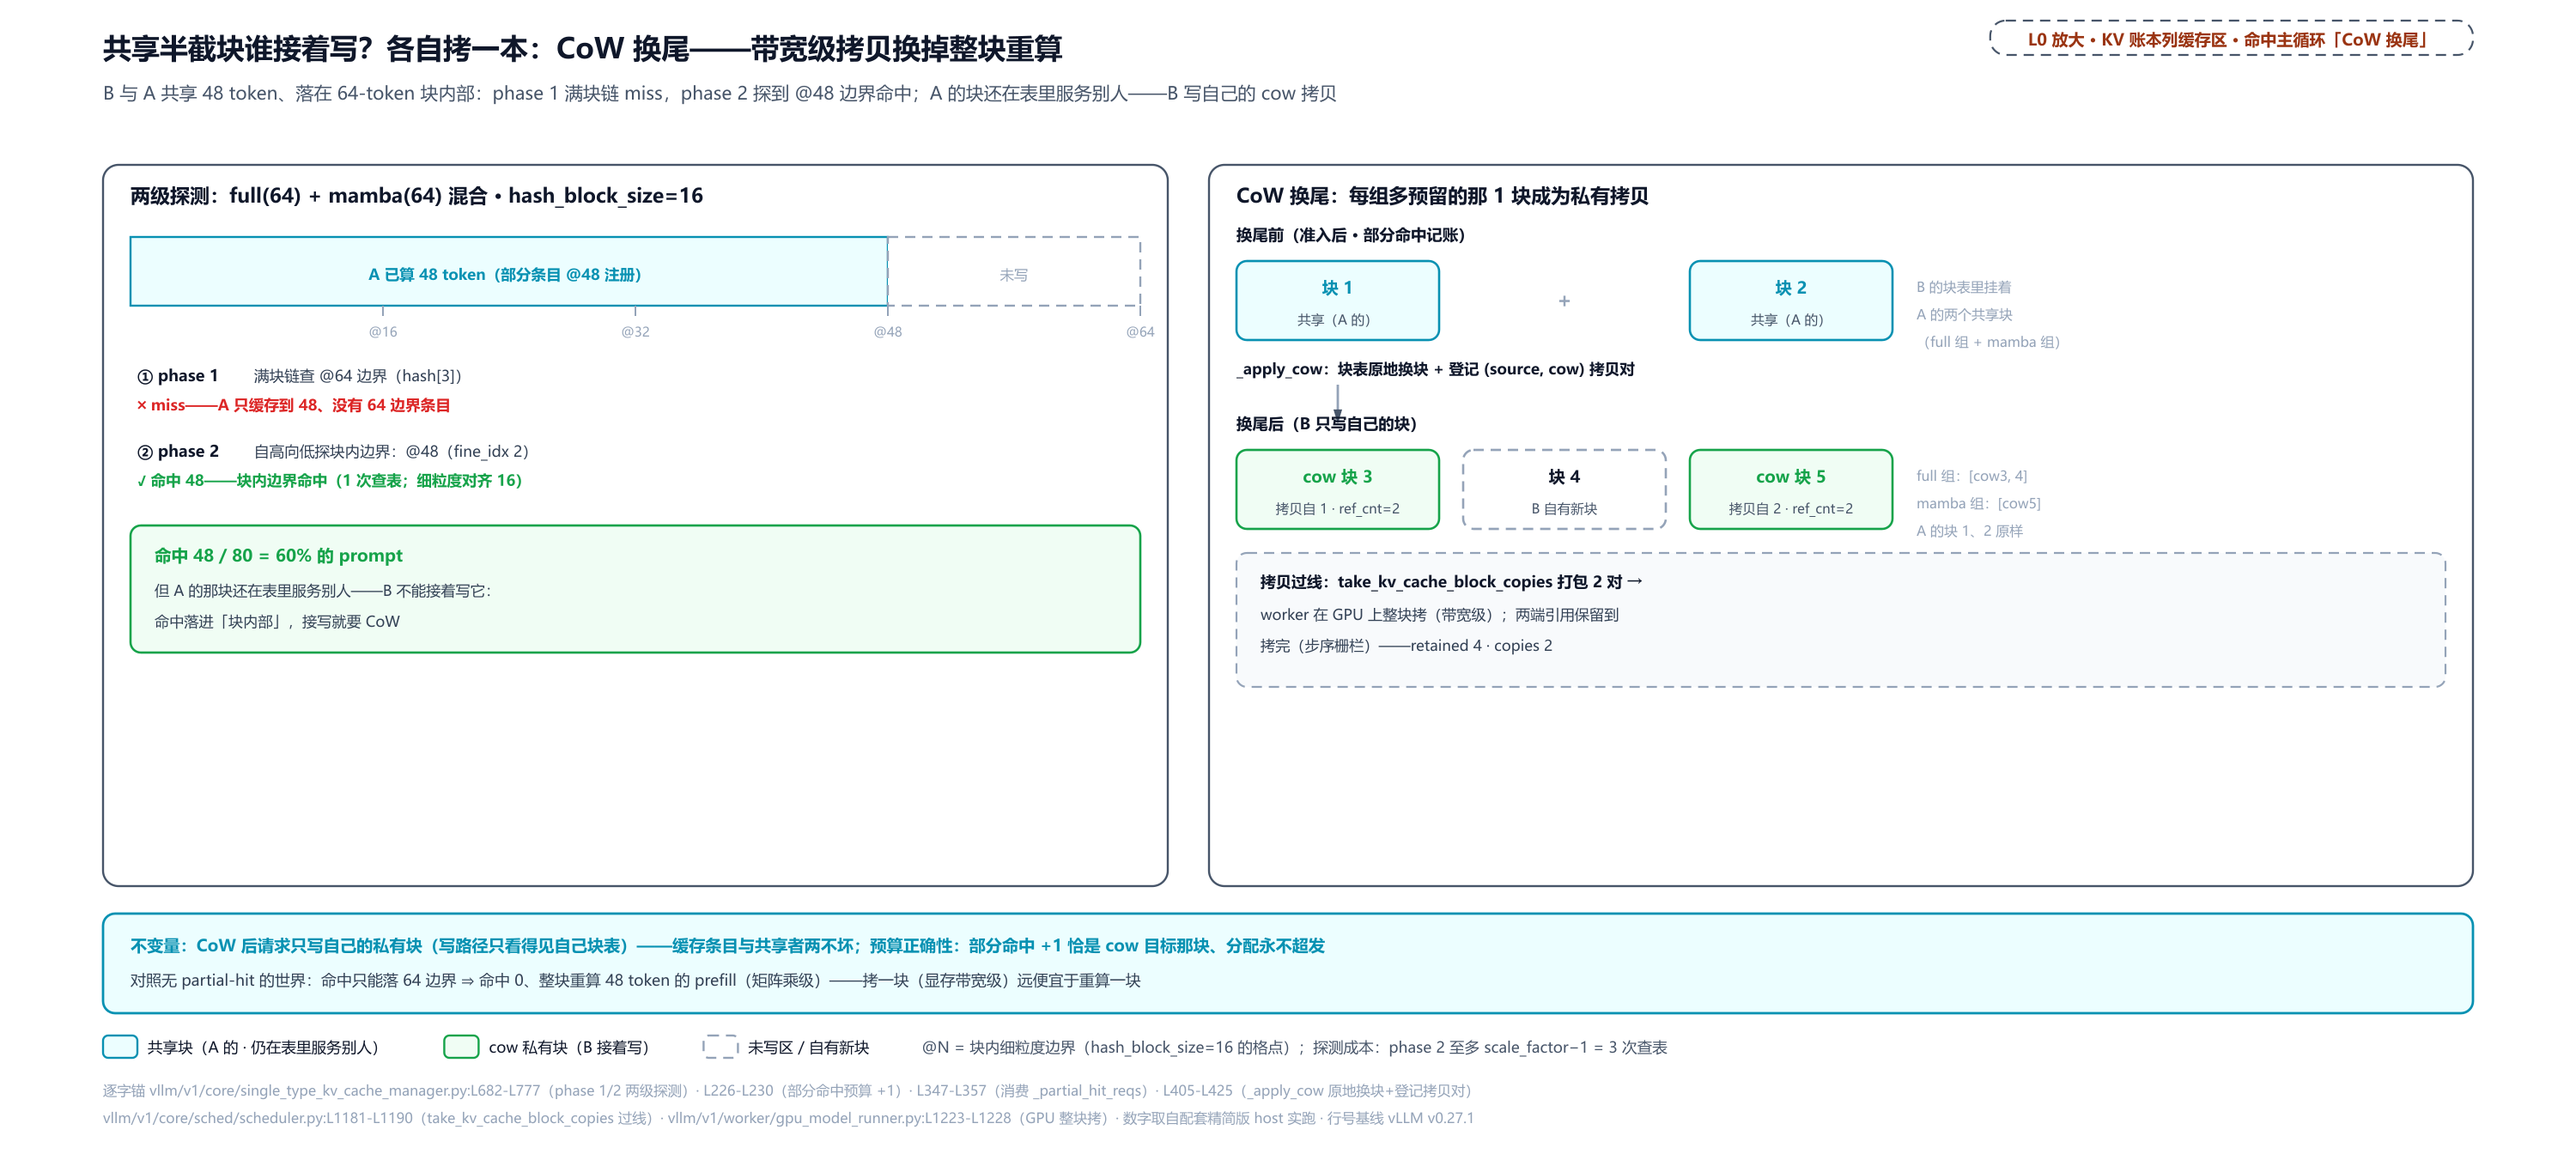
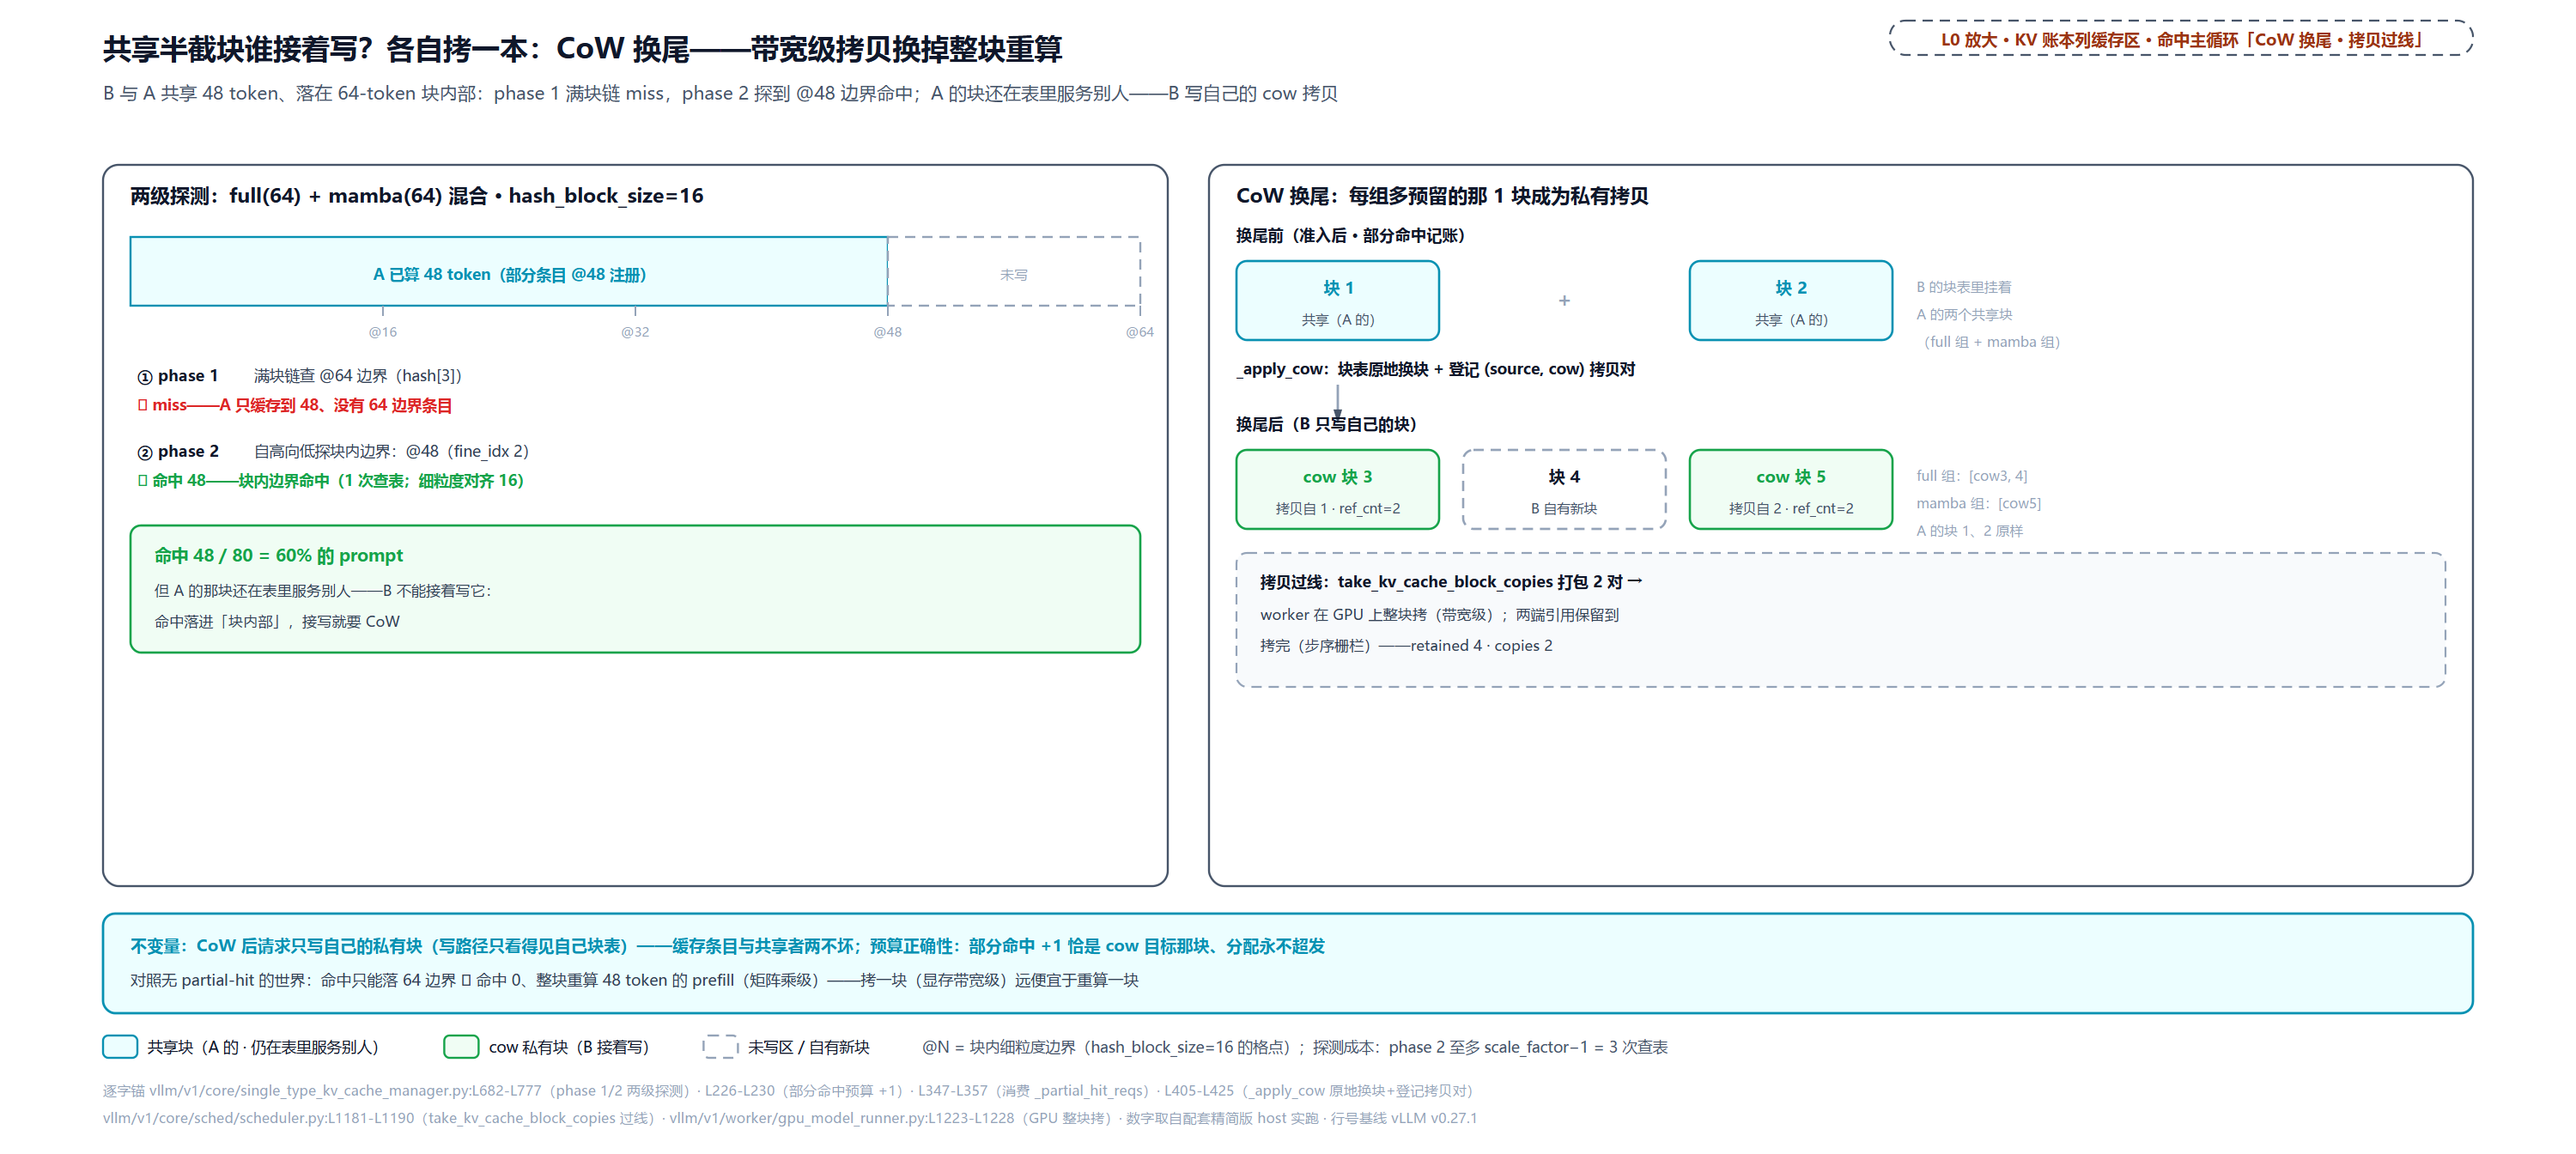
fix(v3 ch15 图系): F6/F7 三图标签定点修+重盲审全 PASS
- f2-preempt-rehit 收据行「最坏 48/64」→「最坏＝全量：支线场景
  48、主线 P=64」（消两个分母并置的分读歧义）
- phase1-miss-stop 角标补全「查 → 链上走」两拍（chip 自适应加宽）
- partial-cow 角标补全「CoW 换尾 · 拷贝过线」两拍
gen 三处纯文本改动、坐标版式零动；几何/脚手架/全 16 张 SVG lint
绿；独立重盲审 3/3 PASS（含 2x/3x 裁片逐字核读）。

diff --git a/instances/vllm/artifacts-v3/ch15-prefix-caching/diagrams/gen_ch15-fig-phase1-miss-stop.py b/instances/vllm/artifacts-v3/ch15-prefix-caching/diagrams/gen_ch15-fig-phase1-miss-stop.py
@@ -33,7 +33,7 @@ lc.text(MX, 34, '逐块查表、第一个 miss 即断：块 4 连查都不查—
         16.5, lc.C_TXT, 'start', True, maxw=1000, tag='title')
 lc.text(MX, 58, 'phase 1 沿满块哈希链逐块 get_cached_block，islice 以 max_length//block_size 为预算；全命中也必须退 1 个 token 重算（要 logits），块对齐再回退整块',
         10.5, lc.C_MUTE, 'start', maxw=1030, tag='subtitle')
-_ch = 'L0 放大 · KV 账本列缓存区 · 命中主循环「查」'
+_ch = 'L0 放大 · KV 账本列缓存区 · 命中主循环「查 → 链上走」'
 _cw = lc.chip_w(_ch)
 lc.rect(BXR - _cw, 12, _cw, 20, '#ffffff', lc.C_MUTE, rx=9, sw=1.1, dash=True)
 lc.text(BXR - _cw / 2, 26.5, _ch, 9.5, lc.C_BEAT_T, 'middle', True, maxw=_cw - 4, tag='chip')

diff --git a/instances/vllm/artifacts-v3/ch15-prefix-caching/diagrams/gen_ch15-fig-f2-preempt-rehit.py b/instances/vllm/artifacts-v3/ch15-prefix-caching/diagrams/gen_ch15-fig-f2-preempt-rehit.py
@@ -109,7 +109,7 @@ lc.text(RXX + 16, WY + 63, '最后一个 token 拿 logits；上界 P：块全', 
         maxw=RWW - 32, tag='rg:l2')
 lc.text(RXX + 16, WY + 80, '被惰性驱逐时全量重 prefill。', 8.4, '#334155', 'start',
         maxw=RWW - 32, tag='rg:l3')
-lc.text(RXX + 16, WY + 97, '主线 16（25%）· 最坏 48/64', 8.4, GREEN, 'start', True,
+lc.text(RXX + 16, WY + 97, '主线 16（25%）· 最坏＝全量：支线场景 48、主线 P=64', 8.4, GREEN, 'start', True,
         maxw=RWW - 32, tag='rg:l4')
 
 # ---------------- 底部不变量条（全宽） ----------------
